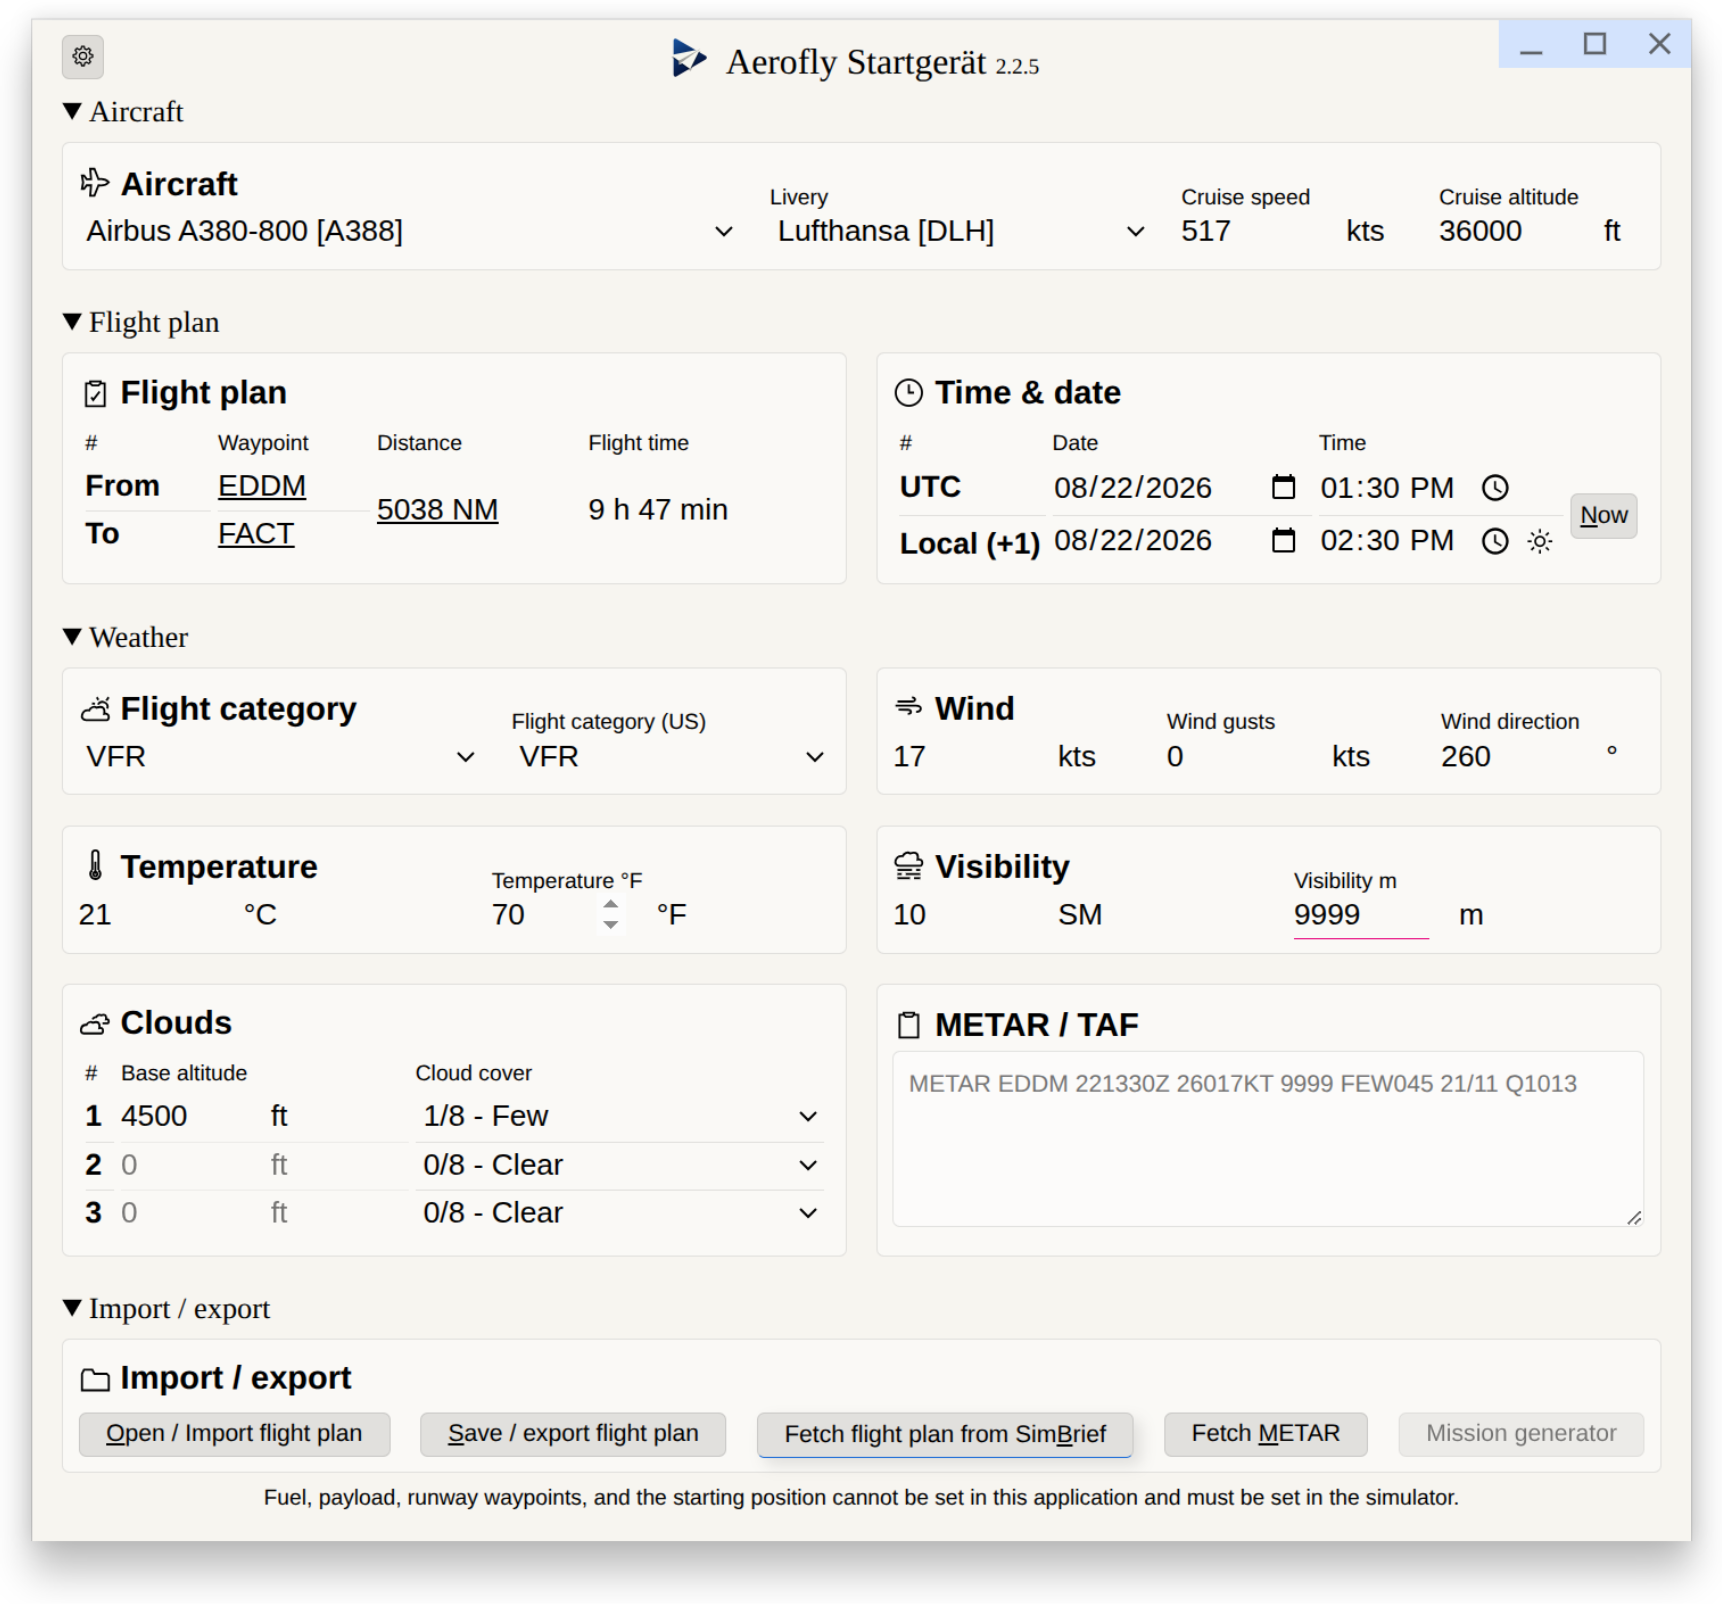
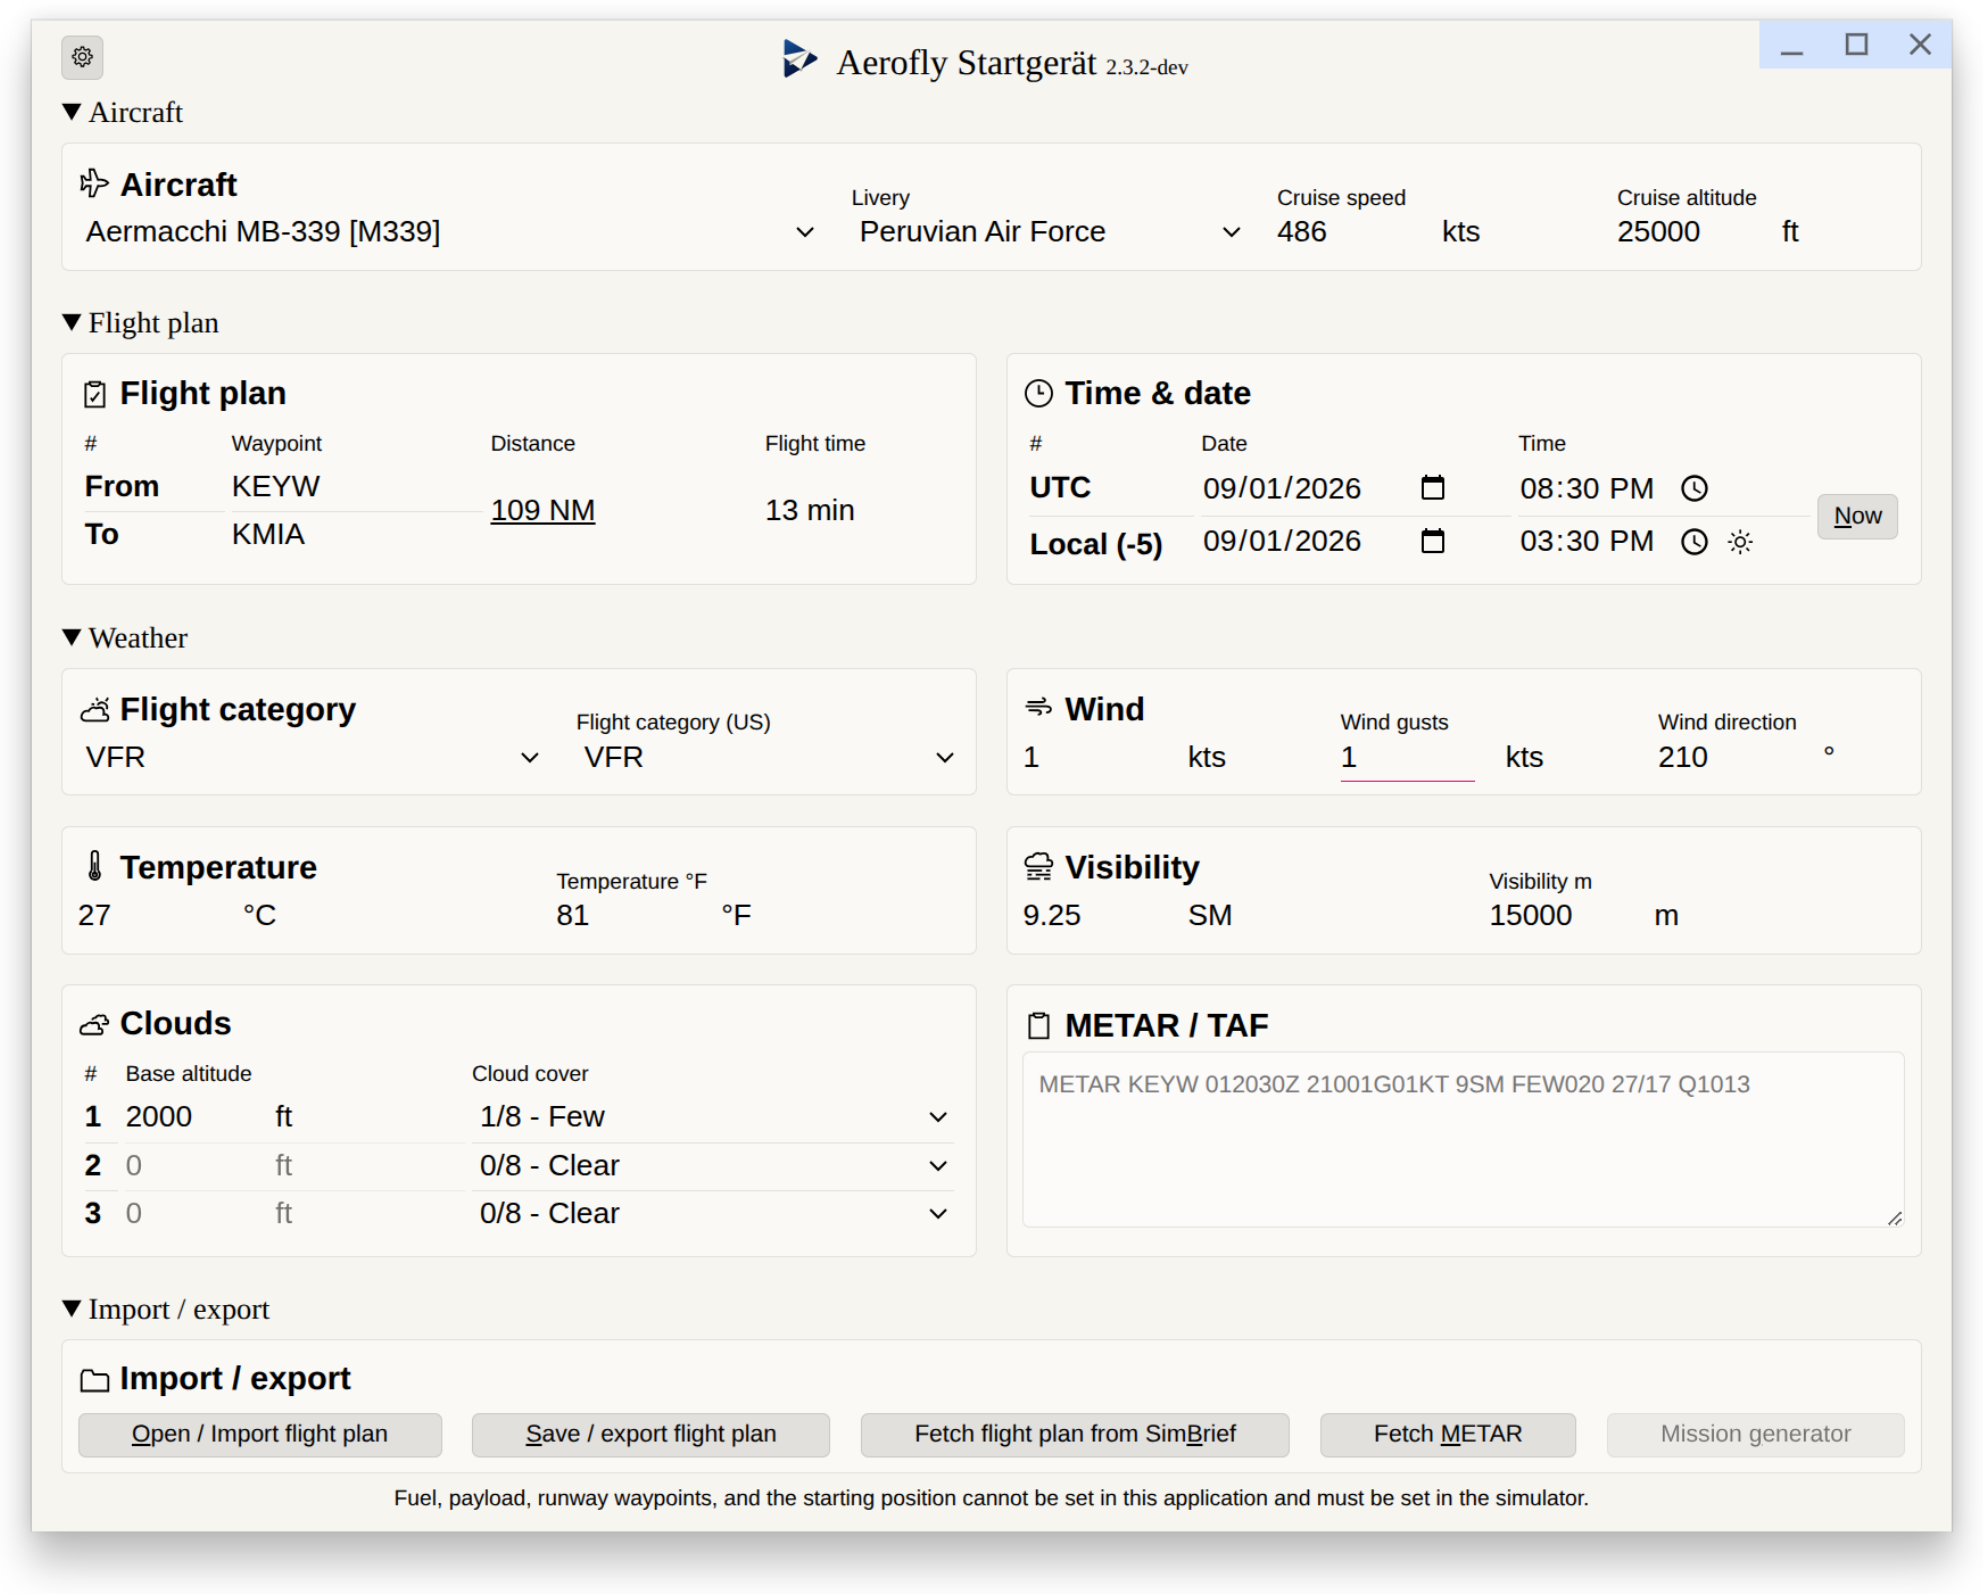
Added `--dev` mode
...which will open up the debugging console, restore window size and position, as well as alter the version number

diff --git a/src/gui/index.ts b/src/gui/index.ts
@@ -5,13 +5,14 @@ import { registerAeroflyAircraftHandlers } from "./handler/registerAeroflyAircra
 import { registerApplicationHandlers } from "./handler/registerApplicationHandlers.js";
 import { IMPORT_FILE_TYPES } from "../core/io/importFlightplan.js";
 import { getWindowState, storeWindowState } from "./handler/windowState.js";
+import { APPLICATION_INFORMATION } from "../core/services/getApplicationInformation.js";
 
 let fileToOpen: string | null = null;
 
 const createWindow = () => {
     const rootDir = path.join(import.meta.dirname, "../..");
     const win = new BrowserWindow({
-        ...getWindowState(),
+        ...getWindowState(APPLICATION_INFORMATION.isDev),
         autoHideMenuBar: true,
         titleBarStyle: "hidden",
         ...(process.platform !== "darwin" ? { titleBarOverlay: true } : {}),
@@ -21,7 +22,10 @@ const createWindow = () => {
         },
     });
     win.loadFile(path.join(rootDir, "assets/gui/index.html"));
-    //win.webContents.openDevTools();
+
+    if (APPLICATION_INFORMATION.isDev) {
+        win.webContents.openDevTools();
+    }
     win.webContents.setWindowOpenHandler(({ url }) => {
         if (url.startsWith("aerofly-startgeraet")) {
             return { action: "allow" };

diff --git a/dist/gui/index.js b/dist/gui/index.js
@@ -5,11 +5,12 @@ import { registerAeroflyAircraftHandlers } from "./handler/registerAeroflyAircra
 import { registerApplicationHandlers } from "./handler/registerApplicationHandlers.js";
 import { IMPORT_FILE_TYPES } from "../core/io/importFlightplan.js";
 import { getWindowState, storeWindowState } from "./handler/windowState.js";
+import { APPLICATION_INFORMATION } from "../core/services/getApplicationInformation.js";
 let fileToOpen = null;
 const createWindow = () => {
     const rootDir = path.join(import.meta.dirname, "../..");
     const win = new BrowserWindow({
-        ...getWindowState(),
+        ...getWindowState(APPLICATION_INFORMATION.isDev),
         autoHideMenuBar: true,
         titleBarStyle: "hidden",
         ...(process.platform !== "darwin" ? { titleBarOverlay: true } : {}),
@@ -19,7 +20,9 @@ const createWindow = () => {
         },
     });
     win.loadFile(path.join(rootDir, "assets/gui/index.html"));
-    //win.webContents.openDevTools();
+    if (APPLICATION_INFORMATION.isDev) {
+        win.webContents.openDevTools();
+    }
     win.webContents.setWindowOpenHandler(({ url }) => {
         if (url.startsWith("aerofly-startgeraet")) {
             return { action: "allow" };

diff --git a/src/core/services/getApplicationInformation.ts b/src/core/services/getApplicationInformation.ts
@@ -20,6 +20,7 @@ export type ApplicationInformation = {
         reponame: string;
         releaseUrl: string;
     };
+    isDev: boolean;
 };
 
 const [, username, reponame] = PackageJson.repository.url.match(/^https:\/\/github.com\/(.+?)\/(.+?)\.git$/) || [];
@@ -27,11 +28,14 @@ if (!username || !reponame) {
     throw new Error("Mission Github repository URL from package.json");
 }
 
+const isDev = process.argv.includes("--dev");
+const version = PackageJson.version + (isDev ? "-dev" : "");
+
 export const APPLICATION_INFORMATION: ApplicationInformation = {
     name: PackageJson.displayName,
-    nameVersion: `${PackageJson.name} ${PackageJson.version}`,
+    nameVersion: `${PackageJson.name} ${version}`,
     slug: reponame,
-    version: PackageJson.version,
+    version,
     description: PackageJson.description,
     locale: "en-US",
     author: {
@@ -44,4 +48,5 @@ export const APPLICATION_INFORMATION: ApplicationInformation = {
         reponame,
         releaseUrl: PackageJson.releases,
     },
+    isDev,
 };

diff --git a/dist/core/services/getApplicationInformation.js b/dist/core/services/getApplicationInformation.js
@@ -3,11 +3,13 @@ const [, username, reponame] = PackageJson.repository.url.match(/^https:\/\/gith
 if (!username || !reponame) {
     throw new Error("Mission Github repository URL from package.json");
 }
+const isDev = process.argv.includes("--dev");
+const version = PackageJson.version + (isDev ? "-dev" : "");
 export const APPLICATION_INFORMATION = {
     name: PackageJson.displayName,
-    nameVersion: `${PackageJson.name} ${PackageJson.version}`,
+    nameVersion: `${PackageJson.name} ${version}`,
     slug: reponame,
-    version: PackageJson.version,
+    version,
     description: PackageJson.description,
     locale: "en-US",
     author: {
@@ -20,4 +22,5 @@ export const APPLICATION_INFORMATION = {
         reponame,
         releaseUrl: PackageJson.releases,
     },
+    isDev,
 };

diff --git a/src/gui/handler/windowState.ts b/src/gui/handler/windowState.ts
@@ -4,8 +4,8 @@ import { Config } from "../../core/io/Config.js";
 const config = new Config("electron");
 
 type WindowSize = {
-    height: number;
     width: number;
+    height: number;
 };
 
 type WindowPosition = {
@@ -16,7 +16,14 @@ type WindowPosition = {
 /**
  * @returns intitial width and height of main window; possibly also position of window, if this is not ouf of bounds
  */
-export function getWindowState() {
+export function getWindowState(isDev = false) {
+    if (isDev) {
+        return {
+            width: 960,
+            height: 755,
+        };
+    }
+
     const windowSize = getWindowSize();
     return {
         ...windowSize,

diff --git a/dist/gui/handler/windowState.js b/dist/gui/handler/windowState.js
@@ -4,7 +4,13 @@ const config = new Config("electron");
 /**
  * @returns intitial width and height of main window; possibly also position of window, if this is not ouf of bounds
  */
-export function getWindowState() {
+export function getWindowState(isDev = false) {
+    if (isDev) {
+        return {
+            width: 960,
+            height: 755,
+        };
+    }
     const windowSize = getWindowSize();
     return {
         ...windowSize,

diff --git a/CHANGELOG.md b/CHANGELOG.md
@@ -9,6 +9,7 @@
 - Fixed auto-save feature
 - Improved handling of MSFS 2024 mission files
 - Added fuel warning to flight plan summary
+- Added `--dev` mode
 
 ## [2.3.2] - 2026-08-25
 
